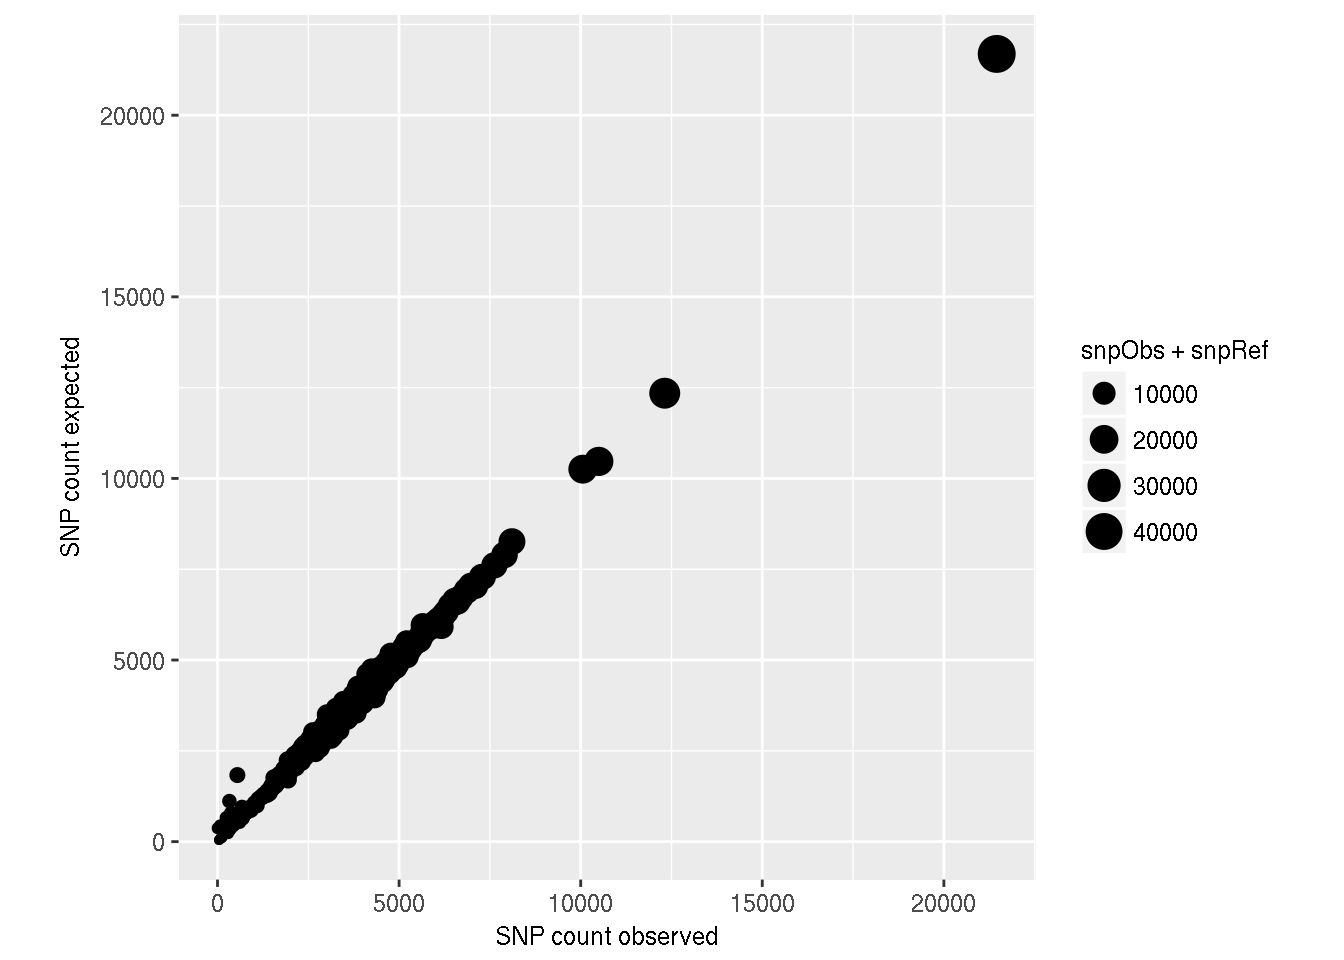
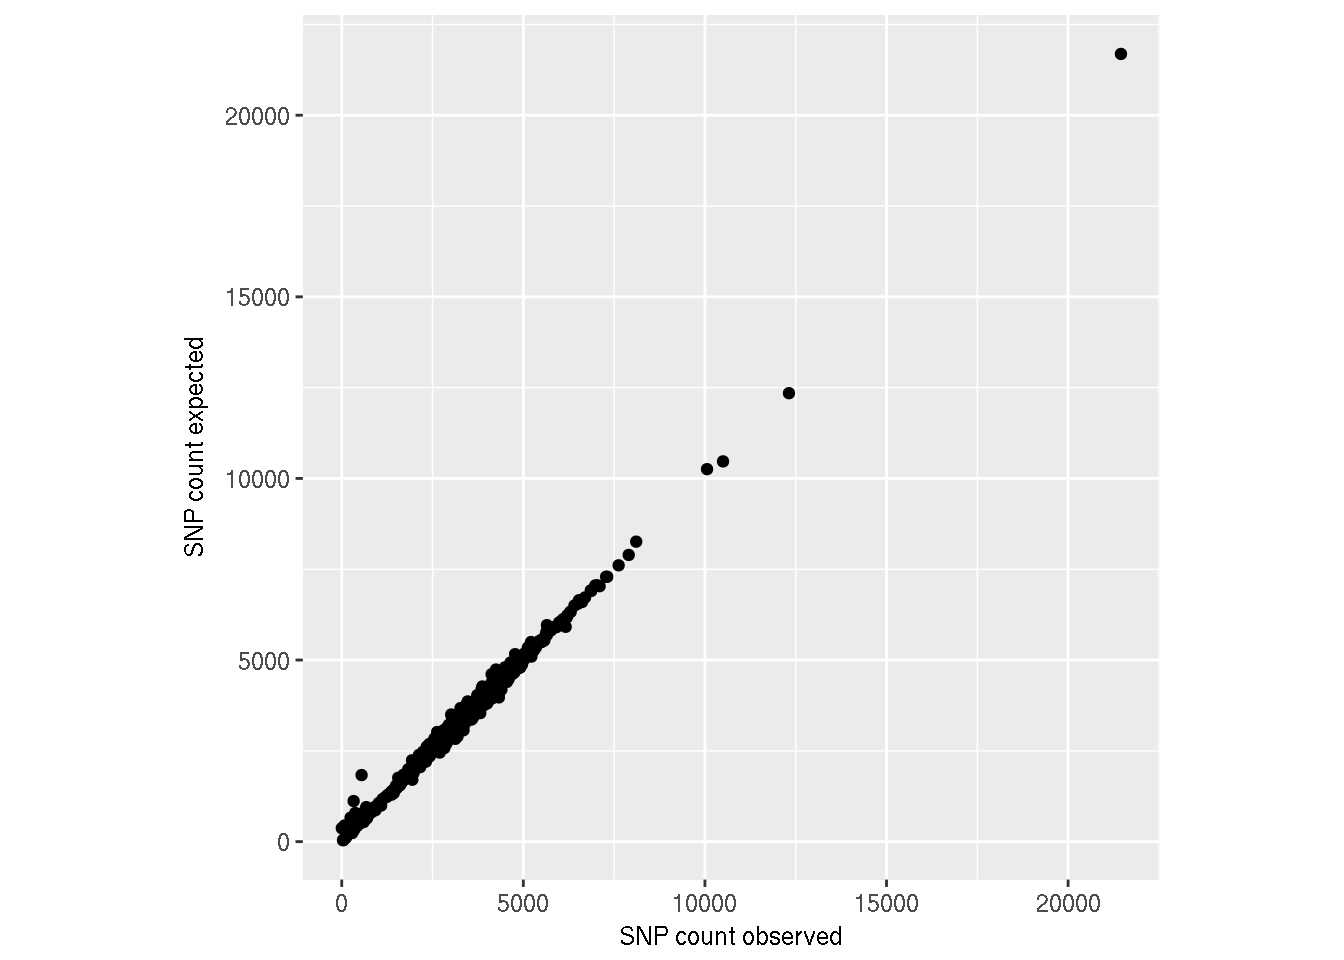
Output de-dupped sumstats

diff --git a/gwas.html b/gwas.html
@@ -1798,12 +1798,12 @@ output_snps &lt;- daner_snps %&gt;%
   left_join(impute_snps, by=c(&#39;CHR&#39;, &#39;MB&#39;)) %&gt;%
   mutate(snpObs=if_else(is.na(snpObs), true=0L, false=snpObs))
 
-ggplot(output_snps, aes(x=snpObs, y=snpRef, size=snpObs+snpRef)) +
+ggplot(output_snps, aes(x=snpObs, y=snpRef)) +
 geom_point() +
 scale_x_continuous(&#39;SNP count observed&#39;) +
 scale_y_continuous(&#39;SNP count expected&#39;) +
 coord_fixed()</code></pre>
[2 lines of base64/hex data omitted]
 </section>
 <section id="meta-analysis-setup" class="level2" data-number="5.2">
 <h2 data-number="5.2"><span class="header-section-number">5.2</span> Meta-analysis setup</h2>
@@ -1921,9 +1921,10 @@ $REPORT/${INFIX}*qq.pdf \
 data/summary_stats_0120_rmUKBB/pgc_mdd_meta_no23andMe
 
 # retain sumstats rows with the correct number of columns (19)
-# this arises from SNPs that are only present in one of the underlying cohorts and so some of the supplementary columns
-# are not included. This removes an acceptably small number of SNPS (&lt; 100)
-zcat $REPORT/daner_${INFIX}.gz | awk -F $&#39;\t&#39; &#39;{if(NF == 19) {print $0}}&#39; | gzip -c &gt; data/summary_stats_0120_rmUKBB/pgc_mdd_meta_no23andMe/daner_${INFIX}.gz
+# this arises from SNPs that are only present in one of the underlying cohorts and
+# some of the supplementary columns are not included. This removes an acceptably 
+# small number of SNPS (&lt; 100)
+zcat $REPORT/daner_${INFIX}.gz | awk -F $&#39;\t&#39; &#39;{if(NF == 19) {print $0}}&#39; | gzip -c &gt; data/full_meta/daner_${INFIX}.gz
 </code></pre>
 <p>Check number of excluded SNPs</p>
 <pre class="bash"><code>
@@ -1932,6 +1933,55 @@ INFIX=pgc_mdd_meta_w2_no23andMe_rmUKBB
 zcat $REPORT/daner_${INFIX}.gz | awk -F $&#39;\t&#39; &#39;{if(NF &lt; 19) {print $0}}&#39; | wc -l 
 </code></pre>
 <pre><code>## 61</code></pre>
+<p>Check for duplicated CPIDs</p>
+<pre class="r"><code>full_meta_no23am_daner &lt;- read_tsv(&#39;data/full_meta/daner_pgc_mdd_meta_w2_no23andMe_rmUKBB.gz&#39;)</code></pre>
+<pre><code>## Parsed with column specification:
+## cols(
+##   CHR = col_integer(),
+##   SNP = col_character(),
+##   BP = col_integer(),
+##   A1 = col_character(),
+##   A2 = col_character(),
+##   FRQ_A_45396 = col_double(),
+##   FRQ_U_97250 = col_double(),
+##   INFO = col_double(),
+##   OR = col_double(),
+##   SE = col_double(),
+##   P = col_double(),
+##   ngt = col_integer(),
+##   Direction = col_character(),
+##   HetISqt = col_double(),
+##   HetDf = col_integer(),
+##   HetPVa = col_double(),
+##   Nca = col_integer(),
+##   Nco = col_integer(),
+##   Neff_half = col_double()
+## )</code></pre>
+<pre class="r"><code># CPID
+cpid_dups &lt;-
+full_meta_no23am_daner %&gt;%
+  group_by(CHR, BP) %&gt;%
+  tally() %&gt;%
+  filter(n &gt; 1)
+
+nrow(cpid_dups)</code></pre>
+<pre><code>## [1] 5211</code></pre>
+<pre class="r"><code># SNP
+snp_dups &lt;-
+full_meta_no23am_daner %&gt;%
+  group_by(SNP) %&gt;%
+  tally() %&gt;%
+  filter(n &gt; 1) %&gt;%
+  arrange(n)
+
+nrow(snp_dups)</code></pre>
+<pre><code>## [1] 0</code></pre>
+<pre class="r"><code># drop duplicated CPIDs
+full_meta_no23am_daner_nodups &lt;- full_meta_no23am_daner %&gt;%
+  anti_join(cpid_dups, by=c(&#39;CHR&#39;, &#39;BP&#39;)) %&gt;%
+  arrange(CHR, BP)
+
+write_tsv(full_meta_no23am_daner_nodups, &#39;data/summary_stats_0120_rmUKBB/pgc_mdd_full_meta_no23andMe/daner_pgc_mdd_meta_w2_no23andMe_rmUKBB.gz&#39;)</code></pre>
 <section id="results" class="level3" data-number="6.1.1">
 <h3 data-number="6.1.1"><span class="header-section-number">6.1.1</span> Results</h3>
 <pre class="r"><code>read_excel(&#39;data/summary_stats_0120_rmUKBB/pgc_mdd_full_meta_no23andMe/daner_pgc_mdd_meta_w2_no23andMe_rmUKBB.gz.p4.clump.areator.sorted.1mhc.xls&#39;) %&gt;%
@@ -1989,8 +2039,57 @@ $REPORT/${INFIX}*qq.pdf \
 data/summary_stats_0120_rmUKBB/pgc_mdd_full_meta
 
 # retain sumstats rows with the correct number of columns (19)
-zcat $REPORT/daner_${INFIX}.gz | awk -F $&#39;\t&#39; &#39;{if(NF == 19) {print $0}}&#39; | gzip -c &gt; data/summary_stats_0120_rmUKBB/pgc_mdd_full_meta/daner_${INFIX}.gz
+zcat $REPORT/daner_${INFIX}.gz | awk -F $&#39;\t&#39; &#39;{if(NF == 19) {print $0}}&#39; | gzip -c &gt; data/full_meta_23am/daner_${INFIX}.gz
 </code></pre>
+<p>Check for duplicated CPIDs</p>
+<pre class="r"><code>full_meta_daner &lt;- read_tsv(&#39;data/full_meta_23am/daner_pgc_mdd_meta_w2_rmUKBB.gz&#39;)</code></pre>
+<pre><code>## Parsed with column specification:
+## cols(
+##   CHR = col_integer(),
+##   SNP = col_character(),
+##   BP = col_integer(),
+##   A1 = col_character(),
+##   A2 = col_character(),
+##   FRQ_A_116209 = col_double(),
+##   FRQ_U_314566 = col_double(),
+##   INFO = col_double(),
+##   OR = col_double(),
+##   SE = col_double(),
+##   P = col_double(),
+##   ngt = col_character(),
+##   Direction = col_character(),
+##   HetISqt = col_double(),
+##   HetDf = col_integer(),
+##   HetPVa = col_double(),
+##   Nca = col_integer(),
+##   Nco = col_integer(),
+##   Neff_half = col_double()
+## )</code></pre>
+<pre class="r"><code># CPID
+cpid_dups &lt;-
+full_meta_daner %&gt;%
+  group_by(CHR, BP) %&gt;%
+  tally() %&gt;%
+  filter(n &gt; 1)
+
+nrow(cpid_dups)</code></pre>
+<pre><code>## [1] 4794</code></pre>
+<pre class="r"><code># SNP
+snp_dups &lt;-
+full_meta_daner %&gt;%
+  group_by(SNP) %&gt;%
+  tally() %&gt;%
+  filter(n &gt; 1) %&gt;%
+  arrange(n)
+
+nrow(snp_dups)</code></pre>
+<pre><code>## [1] 0</code></pre>
+<pre class="r"><code># drop duplicated CPIDs
+full_meta_daner_nodups &lt;- full_meta_daner %&gt;%
+  anti_join(cpid_dups, by=c(&#39;CHR&#39;, &#39;BP&#39;)) %&gt;%
+  arrange(CHR, BP)
+
+write_tsv(full_meta_daner_nodups, &#39;data/summary_stats_0120_rmUKBB/pgc_mdd_full_meta/daner_pgc_mdd_meta_w2_rmUKBB.gz&#39;)</code></pre>
 <section id="results-1" class="level3" data-number="6.2.1">
 <h3 data-number="6.2.1"><span class="header-section-number">6.2.1</span> Results</h3>
 <pre class="r"><code>read_excel(&#39;data/summary_stats_0120_rmUKBB/pgc_mdd_full_meta/daner_pgc_mdd_meta_w2_rmUKBB.gz.p4.clump.areator.sorted.1mhc.xls&#39;) %&gt;%
